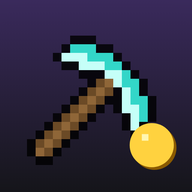
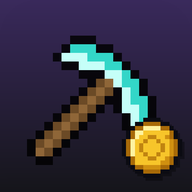
Новые иконки и заставки: пиксельная монета вместо оранжевого кружка (кэш 8b1a4ef067)

Changed region(s): [[0.625, 0.5938, 0.9688, 0.9062]]

diff --git a/sw.js b/sw.js
@@ -1,5 +1,5 @@
 // Офлайн-режим Кирки. Создан make-iphone.py — руками не править.
-const CACHE = 'kirka-73fd254011';
+const CACHE = 'kirka-8b1a4ef067';
 const FILES = ['./', './index.html', './manifest.webmanifest', './apple-touch-icon.png', './icon-192.png', './icon-512.png', './icon-maskable-512.png', './favicon.png'];
 self.addEventListener('install', e => {
   e.waitUntil(caches.open(CACHE).then(c => c.addAll(FILES.map(f => new Request(f, { cache: 'reload' })))).then(() => self.skipWaiting()));
